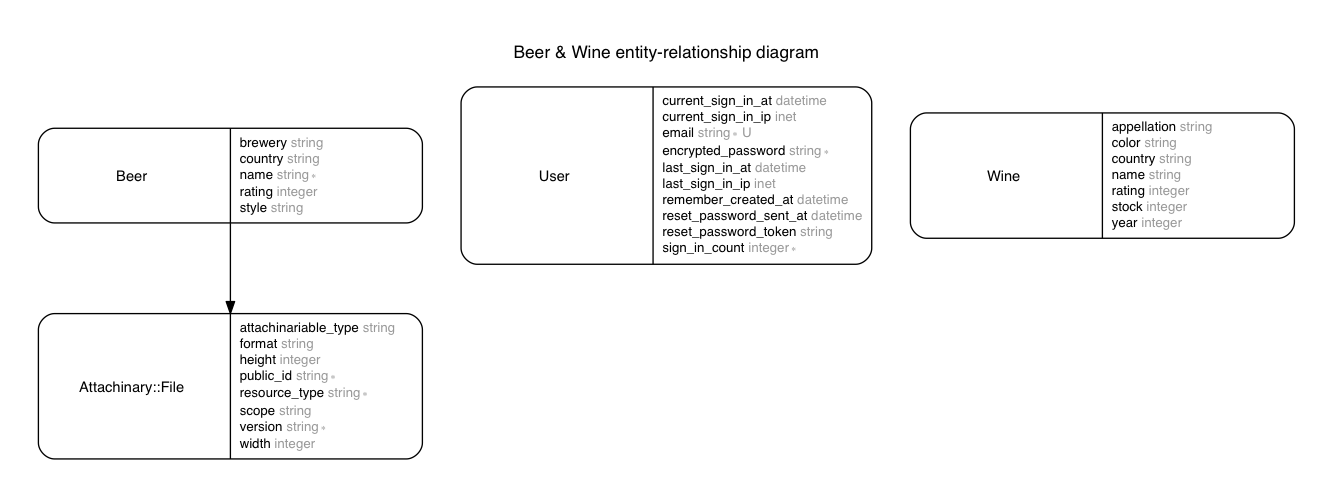
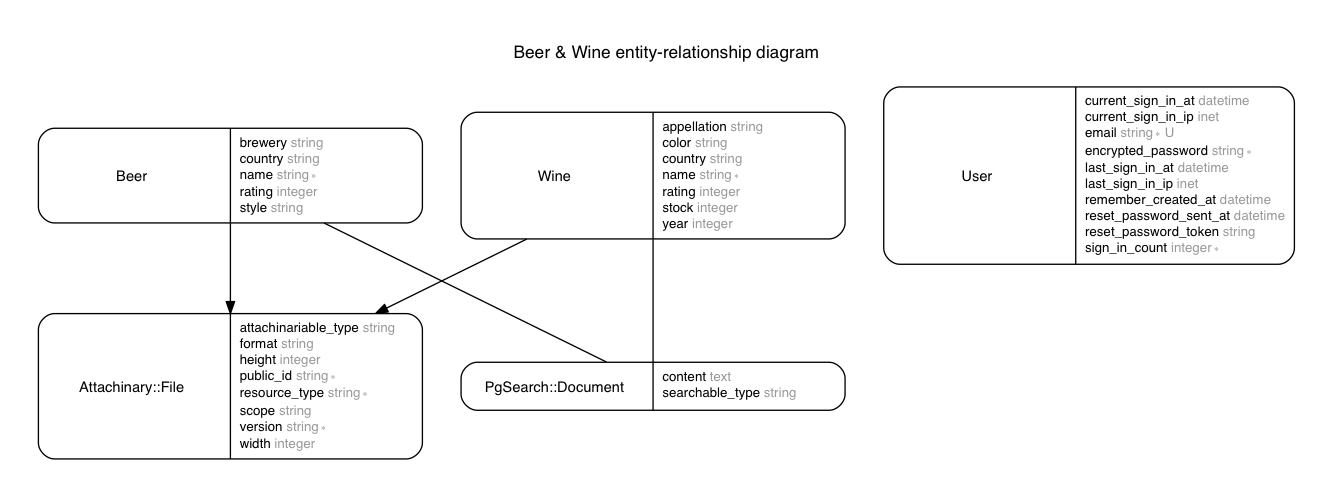
search

diff --git a/db/schema.rb b/db/schema.rb
@@ -10,7 +10,7 @@
 #
 # It's strongly recommended that you check this file into your version control system.
 
-ActiveRecord::Schema.define(version: 20170827163152) do
+ActiveRecord::Schema.define(version: 20170827170817) do
 
   # These are extensions that must be enabled in order to support this database
   enable_extension "plpgsql"
@@ -38,6 +38,15 @@ ActiveRecord::Schema.define(version: 20170827163152) do
     t.datetime "created_at", null: false
     t.datetime "updated_at", null: false
     t.integer  "rating"
+  end
+
+  create_table "pg_search_documents", force: :cascade do |t|
+    t.text     "content"
+    t.string   "searchable_type"
+    t.integer  "searchable_id"
+    t.datetime "created_at",      null: false
+    t.datetime "updated_at",      null: false
+    t.index ["searchable_type", "searchable_id"], name: "index_pg_search_documents_on_searchable_type_and_searchable_id", using: :btree
   end
 
   create_table "users", force: :cascade do |t|

diff --git a/db/migrate/20170827170817_create_pg_search_documents.rb b/db/migrate/20170827170817_create_pg_search_documents.rb
@@ -1,0 +1,17 @@
+class CreatePgSearchDocuments < ActiveRecord::Migration[5.0]
+  def self.up
+    say_with_time("Creating table for pg_search multisearch") do
+      create_table :pg_search_documents do |t|
+        t.text :content
+        t.belongs_to :searchable, :polymorphic => true, :index => true
+        t.timestamps null: false
+      end
+    end
+  end
+
+  def self.down
+    say_with_time("Dropping table for pg_search multisearch") do
+      drop_table :pg_search_documents
+    end
+  end
+end

diff --git a/config/routes.rb b/config/routes.rb
@@ -1,4 +1,6 @@
 Rails.application.routes.draw do
+  get 'drink/index'
+
   devise_for :users
   root to: 'pages#home'
 
@@ -9,6 +11,8 @@ Rails.application.routes.draw do
   resources :wines do
     resource :rating, only: :edit, module: :wines
   end
+
+  resources :drinks, only: :index
 
   mount Attachinary::Engine => "/attachinary"
 end

diff --git a/app/controllers/drinks_controller.rb b/app/controllers/drinks_controller.rb
@@ -1,0 +1,7 @@
+class DrinksController < ApplicationController
+  before_action :authenticate_user!, except: [:index]
+  def index
+    @query = params[:query]
+    @drinks = PgSearch.multisearch(@query)
+  end
+end

diff --git a/app/models/beer.rb b/app/models/beer.rb
@@ -1,4 +1,6 @@
 class Beer < ApplicationRecord
+  include PgSearch
+  multisearchable against: [:name, :brewery]
   has_attachment :photo
 
   STYLES_FILEPATH = Rails.root.join('data', 'beer_styles.yml')

diff --git a/app/models/wine.rb b/app/models/wine.rb
@@ -1,4 +1,6 @@
 class Wine < ApplicationRecord
+  include PgSearch
+  multisearchable against: [:name, :appellation]
   has_attachment :photo
 
   def self.colors
